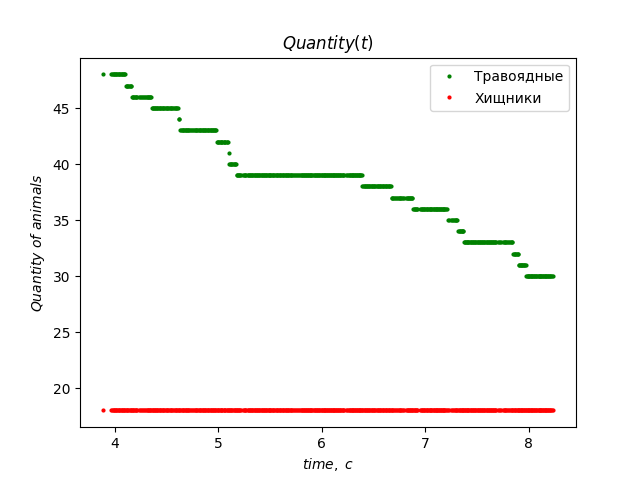
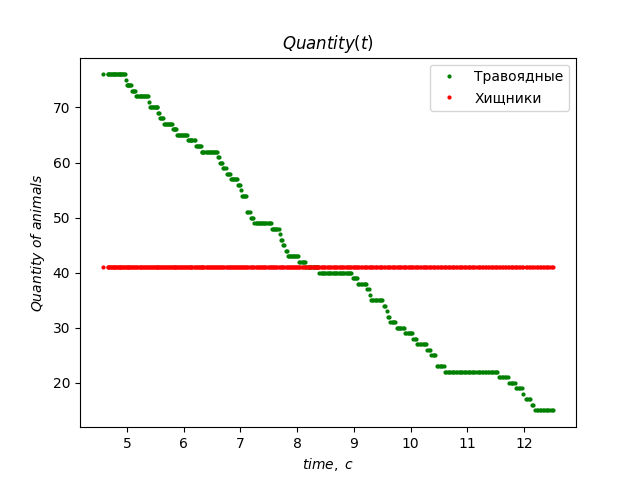
Ðне значительно

diff --git a/Main.py b/Main.py
@@ -100,7 +100,7 @@ def food_generation():
     global quant_fruits, fruits
     old_count = len(fruits)
     clock = Clock()
-    clock.start(0.000001)
+    clock.start(150)
     quant_fruits += 1 * int(scale_fruit.get())
     new_fruits = [0] * (quant_fruits - old_count)
     fruits.append(new_fruits)
